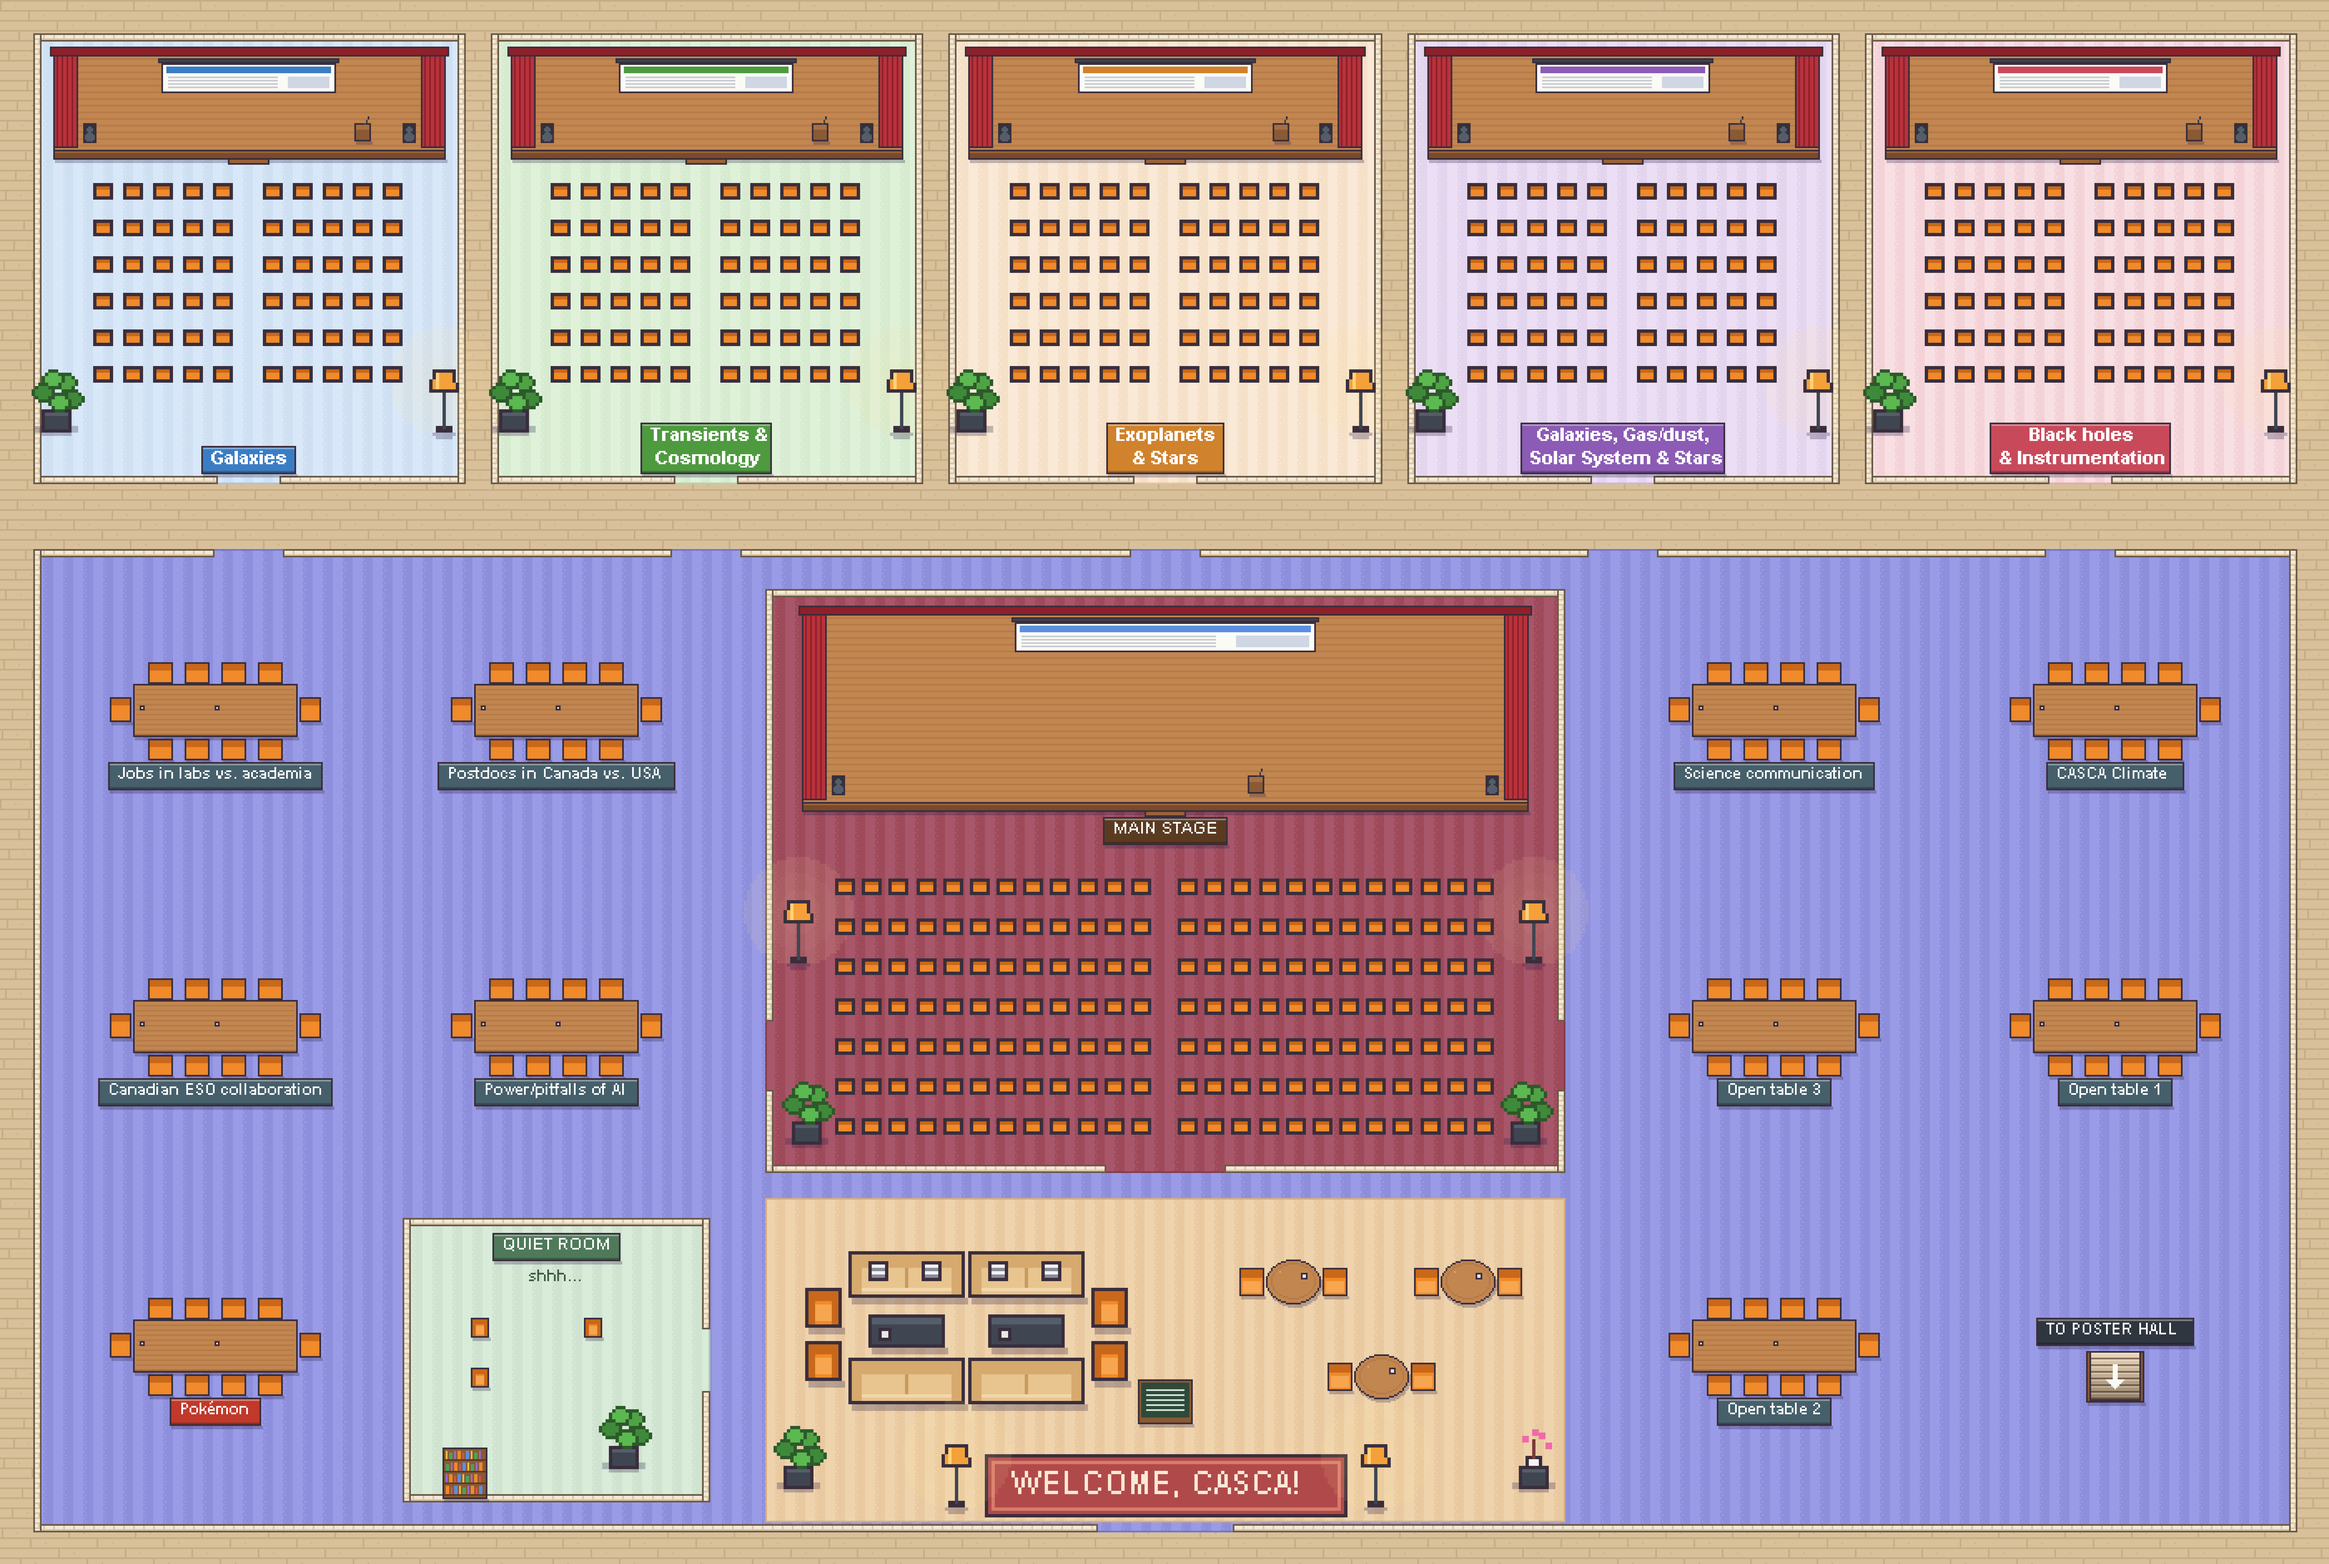
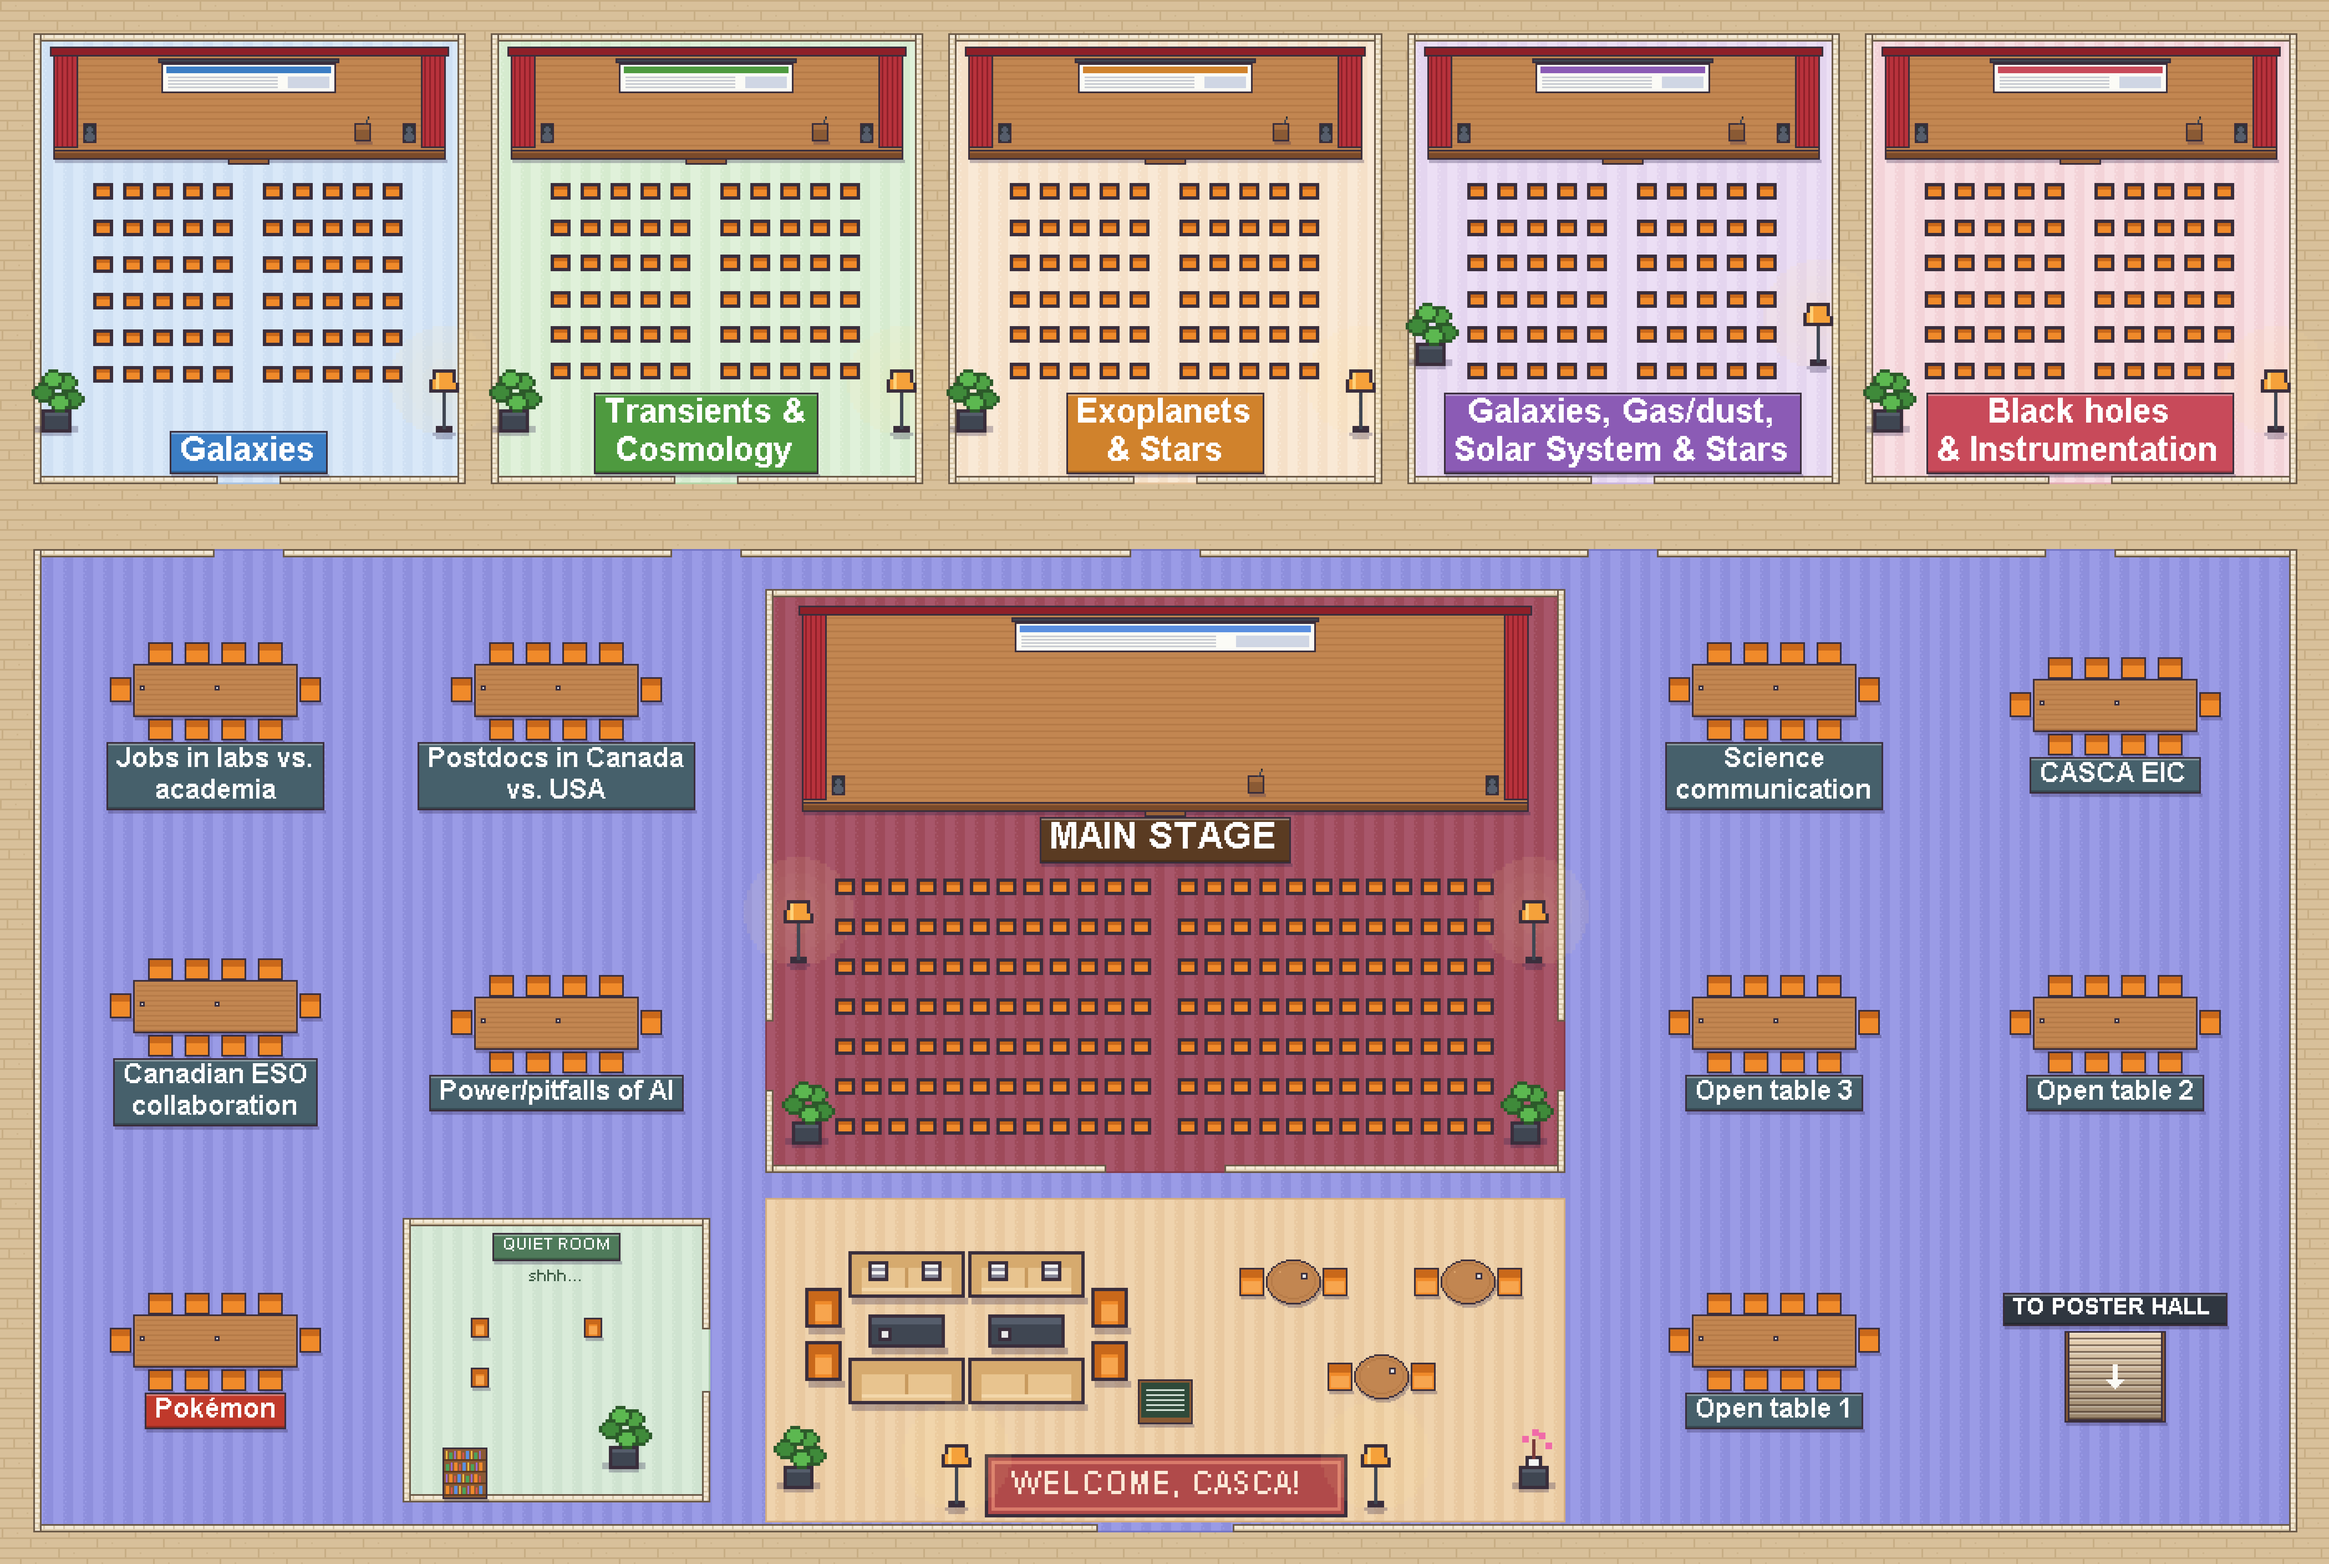
adjusted names

diff --git a/make_session_hall.py b/make_session_hall.py
@@ -33,13 +33,14 @@ SESSION_SEATS_PER_ROW = 10          # chairs per row (split by a centre aisle)
 SESSION_CHAIR_SCALE = 2             # chair size in the session rooms (whole number)
 SESSION_STAGE_DEPTH = 64            # raised stage (curtains, screen, podium) across the top of each room
 SESSION_ROOM_HEIGHT = 270           # art px (taller = more room for seats + sign; shorter = bigger main hall)
-SESSION_SIGN_TEXT_SIZE = 11         # long names wrap onto extra lines automatically
+SESSION_SIGN_TEXT_SIZE = 20         # long names wrap onto extra lines automatically
 SESSION_PLANTS = [(0.05, 0.86)]     # bottom-left corner
 SESSION_FLOWER_PLANTS = []
 SESSION_LAMPS = [(0.95, 0.86)]      # bottom-right corner
 
 # --- main stage room (centred at the top of the main hall) ---
 STAGE_TITLE = "MAIN STAGE"
+STAGE_TITLE_SIZE = 22               # font size of the main stage sign
 STAGE_ROOM_WIDTH, STAGE_ROOM_HEIGHT = 480, 350   # art px, including its walls (the stage spans the room)
 STAGE_DEPTH = 120                   # depth of the raised stage inside the room
 AUDIENCE_ROWS = 7                   # rows of chairs in front of the stage
@@ -85,13 +86,14 @@ PROGRAMME_FILE = "programme.md"
 # row by row (left -> right), then the right grid.
 TABLE_LABELS = ["Jobs in labs vs. academia", "Postdocs in Canada vs. USA",
                 "Canadian ESO collaboration", "Power/pitfalls of AI", "Pokémon",
-                "Science communication", "CASCA Climate", "Open table 3", "Open table 1", "Open table 2"]
+                "Science communication", "CASCA EIC", "Open table 3", "Open table 2", "Open table 1"]
 # Optional per-table name-plate colours (default slate blue)
 TABLE_LABEL_COLOURS = {"Pokémon": "#c0392b"}
 TABLE_POSITIONS = None              # None = grid layout; or one (x, y) hall fraction per table
 TABLE_SEATS = 10                    # chairs per table (2 = small round table for two)
 TABLE_SCALE = 2.4                   # table + chair size: 1.0 = small (3.2 is the most that fits 2 columns)
-TABLE_GRID_COLUMNS = 2              # columns of tables on each side of the stage room
+TABLE_GRID_COLUMNS = 2
+TABLE_LABEL_SIZE = 16               # font size of the table name plates              # columns of tables on each side of the stage room
 
 # --- quiet room: a small walled room with soft seating, no talking ---
 # It takes a spot in a table grid (the bottom-right spot of the left grid by
@@ -122,7 +124,8 @@ SHOW_STAIRS = True
 STAIRS_LABEL = "TO POSTER HALL"     # sign above the stairs ("\n" for two lines)
 STAIRS_POSITION = None              # None = the last spot of a table grid (see STAIRS_SIDE); or (x, y) hall fraction
 STAIRS_SIDE = "right"               # with STAIRS_POSITION = None: "right" = bottom-right spot, "left" = bottom-left
-STAIRS_SIZE = (34, 30)              # art px
+STAIRS_SIZE = (60, 54)              # art px
+STAIRS_LABEL_SIZE = 14              # font size of the stairs sign
 
 # Action points for the discussion tables: one per table, the size of the
 # table and its chairs, so walking up to a table puts you in that table's
@@ -151,6 +154,7 @@ HIT_MAP_TRANSPARENT = True          # HyHyve hit map: transparent = walkable, bl
 
 k.set_size(MAP_WIDTH, MAP_HEIGHT)
 k.MAT_SCALE = MAT_SCALE
+k.LABEL_SIZE = TABLE_LABEL_SIZE
 M, ROOM_GAP, CORRIDOR = 20, 16, 40
 
 def layout():
@@ -281,13 +285,13 @@ def session_room(i, name, box):
     stg = (x0 + 12, y0 + k.T + 6, x1 - 12, y0 + k.T + 6 + SESSION_STAGE_DEPTH)
     k.stage(*stg, title=None, podium_offset=(x1 - x0) // 4, accent=accent)
     # sign at the bottom (door) wall: wrap the text until it fits the room
-    name, sz = k.fit_label(name, (x1 - x0) - 12, SESSION_SIGN_TEXT_SIZE)
+    name, sz = k.fit_label(name, (x1 - x0) - 12, SESSION_SIGN_TEXT_SIZE, max(9, SESSION_SIGN_TEXT_SIZE - 4))
     sh, sgw = k.sign_height(name, sz), k.sign_width(name, sz)
     sy = y1 - 6 - sh + sh // 2
     sign_top = sy - sh // 2
     def clear(x, y, half_w=6):   # move decor that would sit under the sign up above it
-        if abs(x - cx) < sgw // 2 + half_w and y > sign_top - 12:
-            y = sign_top - 12
+        if abs(x - cx) < sgw // 2 + half_w * DECOR_SCALE and y > sign_top - 12 * DECOR_SCALE:
+            y = sign_top - 12 * DECOR_SCALE
         return x, y
     for fx, fy in SESSION_LAMPS:
         x, y = clear(*frac(box, fx, fy)); k.floor_lamp(x - 2, y - 10)
@@ -320,7 +324,7 @@ def stage_room(areas):
     for fx, fy in STAGE_ROOM_PLANTS:
         k.furniture("plant", *frac(STAGE_ROOM, fx, fy))
     stage = (x0 + 22, y0 + k.T + 8, x1 - 22, y0 + k.T + 8 + STAGE_DEPTH)
-    k.stage(*stage, title=STAGE_TITLE)
+    k.stage(*stage, title=STAGE_TITLE, title_size=STAGE_TITLE_SIZE)
     areas.append(("stage", STAGE_TITLE.title(), stage))
     top = stage[3] + AUDIENCE_GAP
     bottom = y1 - k.T - 16
@@ -424,9 +428,10 @@ def main():
     if SHOW_STAIRS:
         sx, sy = frac(HALL, *STAIRS_POSITION) if STAIRS_POSITION is not None else stairs_xy
         # keep the stairs and their sign inside the hall walls
-        half = max(STAIRS_SIZE[0], k.sign_width(STAIRS_LABEL, 9)) // 2 + 2
+        half = max(STAIRS_SIZE[0], k.sign_width(STAIRS_LABEL, STAIRS_LABEL_SIZE)) // 2 + 2
         sx = max(hx0 + k.T + half, min(hx1 - k.T - half, sx))
-        box = k.stairs(sx, sy + 10, *STAIRS_SIZE, label=STAIRS_LABEL, label_colour="#2f3640")
+        box = k.stairs(sx, sy + 10, *STAIRS_SIZE, label=STAIRS_LABEL, label_colour="#2f3640",
+                       label_size=STAIRS_LABEL_SIZE)
         areas.append(("link", one_line(STAIRS_LABEL).title(), box))
     areas.append(("room", "Main Hall", HALL))
 

diff --git a/hyhyve_pixel_kit.py b/hyhyve_pixel_kit.py
@@ -485,7 +485,7 @@ def speaker(x, y):
     g.ellipse([x + 2, y + 2, x + 5, y + 5], fill="#555d6b")
     g.ellipse([x + 1, y + 6, x + 6, y + 10], fill="#555d6b")
 
-def stage(x0, y0, x1, y1, title="MAIN STAGE", podium_offset=50, accent="#5a8fe0"):
+def stage(x0, y0, x1, y1, title="MAIN STAGE", podium_offset=50, accent="#5a8fe0", title_size=10):
     """Raised wooden stage: curtains, big screen, podium, speakers, front steps."""
     front = 5
     shadow(x0, y0, x1, y1)
@@ -509,7 +509,7 @@ def stage(x0, y0, x1, y1, title="MAIN STAGE", podium_offset=50, accent="#5a8fe0"
     R(mid - 12, y1, mid + 12, y1 + 3, "#9a6238", OL)            # steps
     if not title:
         return
-    title, tsz = fit_label(title, (x1 - x0) - 20, 10)
+    title, tsz = fit_label(title, (x1 - x0) - 20, title_size, max(9, title_size - 2))
     th = sign_height(title, tsz)
     sign(mid, y1 + 4 + th // 2, title, "#5a3b22", tsz)
 
@@ -572,8 +572,9 @@ def stairs(cx, cy, w=34, h=30, label=None, label_colour="#2f3640", label_size=9,
     g.rectangle([x0, y0, x1, y1], outline=OL)
     if arrow:                                             # downward arrow on the steps
         ax, ay = cx, cy
-        R(ax - 1, ay - 7, ax + 1, ay + 2, "#fbfbf6")
-        g.polygon([(ax - 5, ay + 2), (ax + 5, ay + 2), (ax, ay + 7)], fill="#fbfbf6")
+        f = max(1, min(w // 34, h // 30))                    # arrow grows with the stairs
+        R(ax - f, ay - 7 * f, ax + f, ay + 2 * f, "#fbfbf6")
+        g.polygon([(ax - 5 * f, ay + 2 * f), (ax + 5 * f, ay + 2 * f), (ax, ay + 7 * f)], fill="#fbfbf6")
     if label:
         lh = sign_height(label, label_size)
         ly = y1 + 4 + lh // 2 if label_below else y0 - 4 - lh + lh // 2
@@ -616,6 +617,8 @@ def _group_dims(seats, scale):
     cw, ch = q(6), q(5)                               # chair size
     return per_side, ends, gap, tw, th, cw, ch
 
+LABEL_SIZE = 9          # font size of table name plates (set by the map scripts)
+
 def group_table(cx, cy, seats=10, label=None, scale=1.0, label_max_w=None, label_colour="#46606b"):
     """Long wooden table with `seats` chairs around it (split along both sides,
     one at each end for 6+). Label on a name plate below, wrapped to label_max_w."""
@@ -647,9 +650,10 @@ def group_table(cx, cy, seats=10, label=None, scale=1.0, label_max_w=None, label
         mx = x0 + 4 + j * (tw - 8) // max(1, seats // 4)
         R(mx, cy - 2, mx + 2, cy, "#e8e8e8", OL)
     if label:
-        lab = wrap_label(label, 9, label_max_w) if label_max_w else str(label)
-        lh = sign_height(lab, 9)
-        sign(cx, y1 + ch + 4 + lh // 2, lab, label_colour, 9)
+        ls = LABEL_SIZE
+        lab = wrap_label(label, ls, label_max_w) if label_max_w else str(label)
+        lh = sign_height(lab, ls)
+        sign(cx, y1 + ch + 4 + lh // 2, lab, label_colour, ls)
 
 def group_table_extent(seats=10, label=None, scale=1.0, label_max_w=None):
     """(half_width, height_above, height_below) a group_table occupies, incl. its label."""
@@ -660,9 +664,10 @@ def group_table_extent(seats=10, label=None, scale=1.0, label_max_w=None):
     above = th // 2 + ch + 1
     below = th // 2 + ch + 3
     if label:
-        lab = wrap_label(label, 9, label_max_w) if label_max_w else str(label)
-        half = max(half, sign_width(lab, 9) // 2)
-        below = th // 2 + ch + 4 + sign_height(lab, 9)
+        ls = LABEL_SIZE
+        lab = wrap_label(label, ls, label_max_w) if label_max_w else str(label)
+        half = max(half, sign_width(lab, ls) // 2)
+        below = th // 2 + ch + 4 + sign_height(lab, ls)
     return half, above, below
 
 # ------------------------------------------------------------------ HyHyve action points
